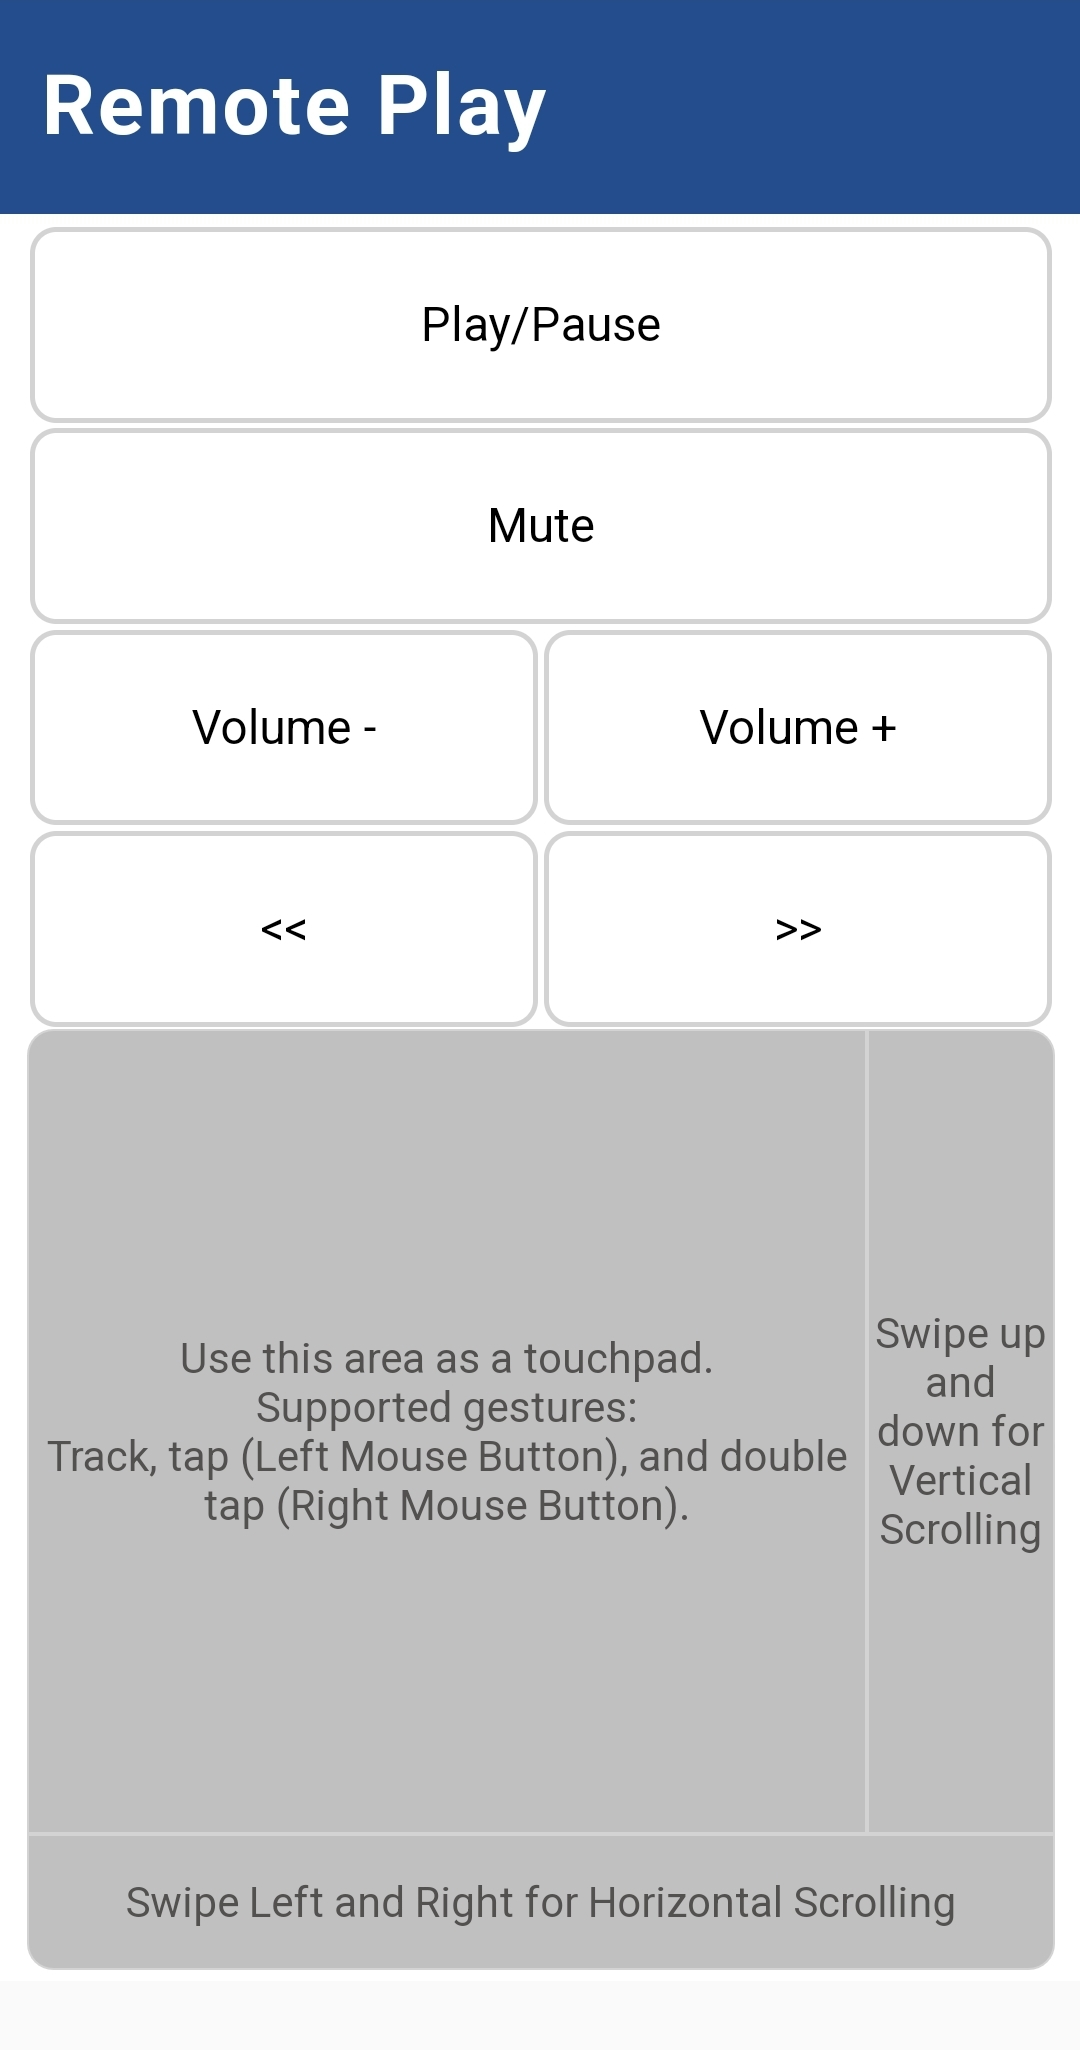
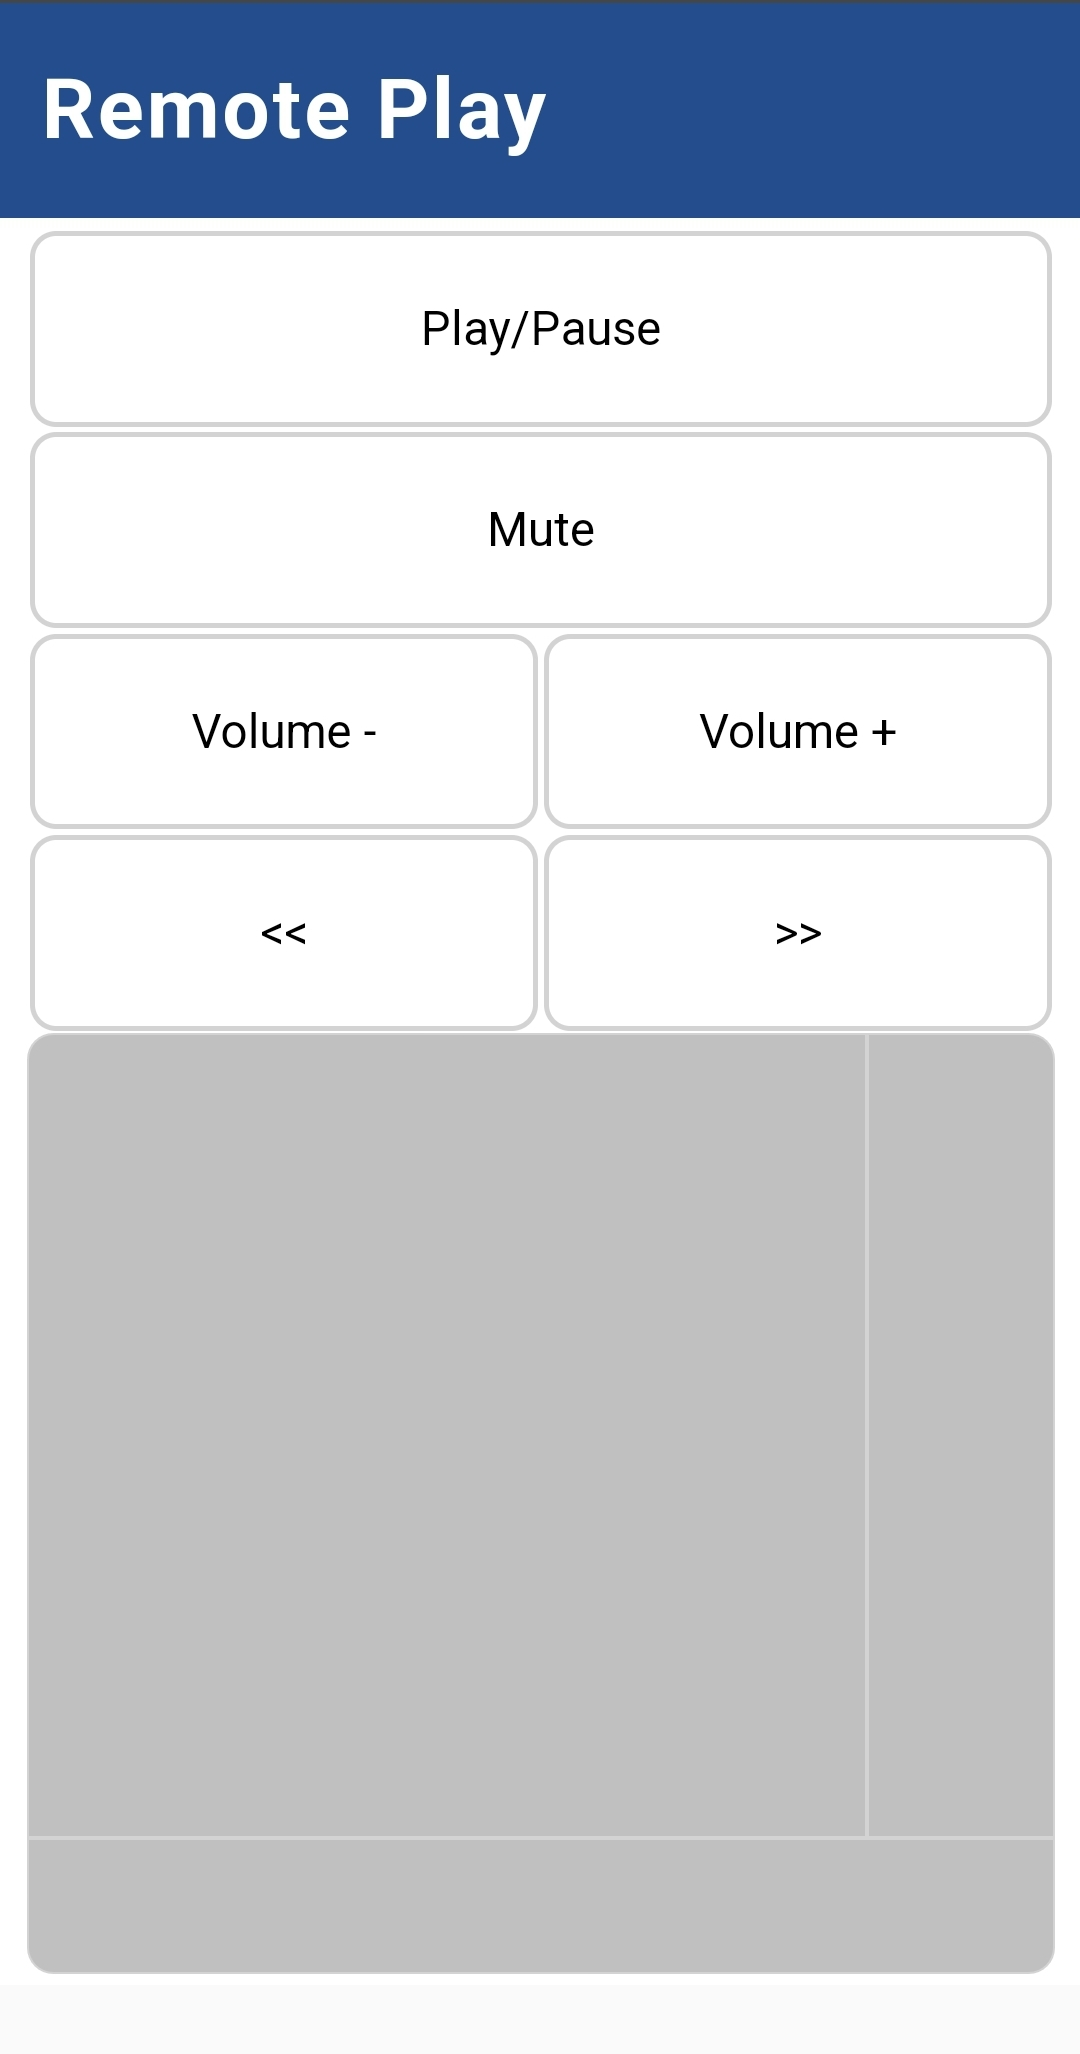
Removed Text and unnecessary code + Updated README #33
-style.css has commented touchpad p / vscrollpad p / hscrollpad p just in case.

diff --git a/static/style.css b/static/style.css
@@ -110,14 +110,14 @@ footer a:hover {
   display: flex;
 }
 
-.touchpad p {
+/* .touchpad p {
   font-family: Arial, Helvetica, sans-serif;
   text-align: center;
   -ms-flex-item-align: center;
       -ms-grid-row-align: center;
       align-self: center;
   margin: auto;
-}
+} */
 
 .vscrollpad {
   background-color: silver;
@@ -131,14 +131,14 @@ footer a:hover {
   display: flex;
 }
 
-.vscrollpad p {
+/* .vscrollpad p {
   font-family: Arial, Helvetica, sans-serif;
   text-align: center;
   -ms-flex-item-align: center;
       -ms-grid-row-align: center;
       align-self: center;
   margin: auto;
-}
+} */
 
 .hscrollpad {
   background-color: silver;
@@ -155,14 +155,15 @@ footer a:hover {
   display: flex;
 }
 
-.hscrollpad p {
+/* .hscrollpad p {
   font-family: Arial, Helvetica, sans-serif;
   text-align: center;
   -ms-flex-item-align: center;
       -ms-grid-row-align: center;
       align-self: center;
   margin: auto;
-}
+} */
+
 .button {
   border-radius: 10px;
   border: 2px solid lightgray;

diff --git a/static/index.html b/static/index.html
@@ -41,22 +41,11 @@
       </button>
       <div id ="wrapper">
       <div class="touchpad" id="touchpad">
-        <p>
-          Use this area as a touchpad.<br />
-          Supported gestures:<br />
-          Track, tap (Left Mouse Button), and double tap (Right Mouse Button).
-        </p>
       </div>
       <div class="vscrollpad" id="vscrollpad">
-        <p>
-          Swipe up and down for Vertical Scrolling
-        </p>
       </div>
     </div>
       <div class="hscrollpad" id="hscrollpad">
-        <p>
-          Swipe left and right for Horizontal Scrolling
-        </p>
       </div>
     </main>
     <footer class="footer">

diff --git a/README.md b/README.md
@@ -13,7 +13,8 @@ The following actions are supported:
 - Mouse cursor movement
 - Left-mouse-button click using tapping
 - Right-mouse-button click using double tap
-- Horizontal and Vertical scrolling in respective areas
+- Swipe up and down to scroll vertically on the right pad
+- Swipe left and right to scroll horizontally on the bottom pad
 
 ## Using Remote-Play
 
